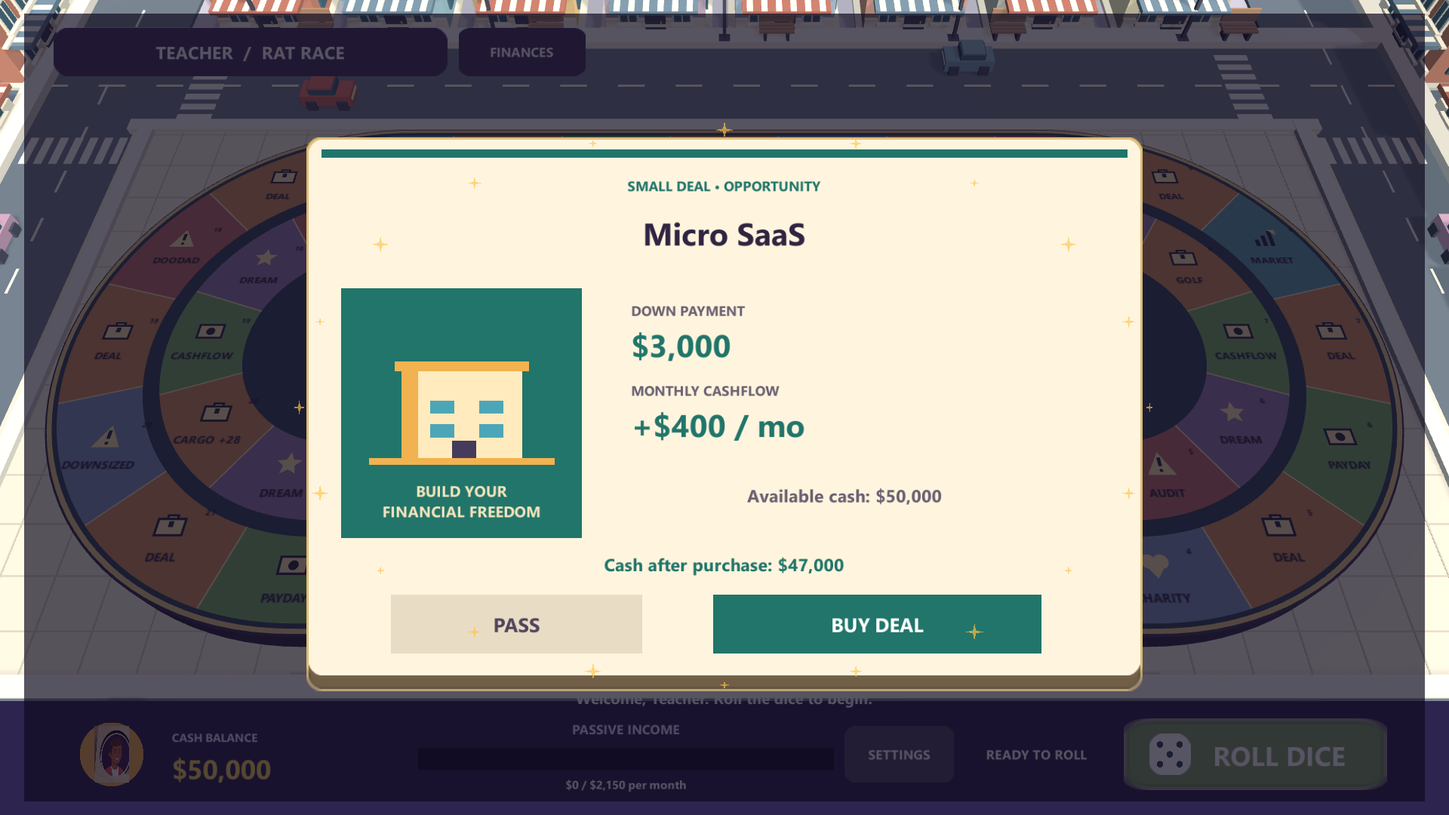
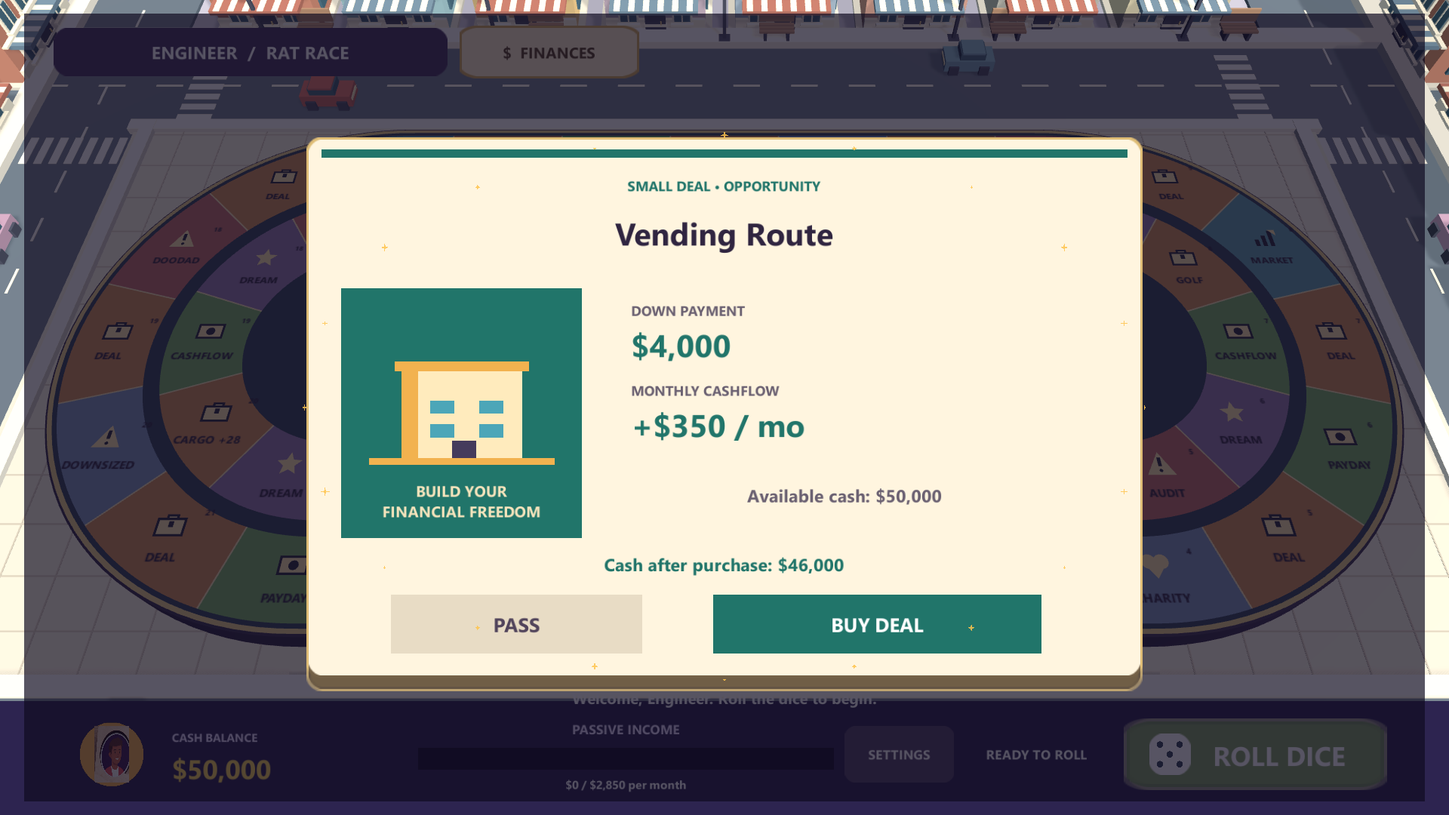
Implement finance features: add bank loans, charity options, and update UI interactions. Enhance tests for loan confirmation, repayment, and financial calculations.

diff --git a/Assets/Scripts/CashflowGame.cs b/Assets/Scripts/CashflowGame.cs
@@ -28,7 +28,7 @@ public partial class CashflowGame : MonoBehaviour
     readonly Deal[] smallDeals = { new Deal("2/1 Condo", 4000, 220), new Deal("3/2 House", 5000, 250), new Deal("Vending Route", 4000, 350), new Deal("Micro SaaS", 3000, 400) };
     readonly Deal[] bigDeals = { new Deal("4-Plex", 10000, 800), new Deal("Pizza Franchise", 35000, 3000) };
 
-    Profession profession; string dream; int selectedDream; int cash, passive, children, position, fastPosition, fastFlow; bool fastTrack, charity; int skipTurns;
+    Profession profession; string dream; int selectedDream; int cash, passive, children, position, fastPosition, fastFlow; bool fastTrack, charity; int skipTurns; int bankLoan;
     BoardWorld world; Button rollButton; bool rolling; GameObject modal;
     RectTransform uiRoot; Text bottomCash, freedomText, diceResult; Image freedomFill;
     Canvas canvas; Text header, statement, log, cashReadout, flowReadout, modeReadout, hoverCopy; RectTransform board; GameObject hoverPanel; Sprite circleSprite, roundedSprite; Font uiFont; readonly Dictionary<string, Sprite> artSprites = new Dictionary<string, Sprite>(); readonly List<Button> tileButtons = new List<Button>(); readonly List<GameObject> boardDecorations = new List<GameObject>();
@@ -199,7 +199,7 @@ public partial class CashflowGame : MonoBehaviour
         var cashflow=Label(confirmation.transform,(flow>=0?"+":"")+Money(flow)+"/mo",17,TextAnchor.MiddleRight); cashflow.color=C("#00e2a4"); cashflow.fontStyle=FontStyle.Bold; Place(cashflow.rectTransform,420,39,675,28);
         var start=Button(confirmation.transform,"⊙  START CASHFLOW GAME",C("#079d70"),()=>{PlayerPrefs.SetInt("CashflowDream",selectedDream);PlayerPrefs.Save();SceneManager.LoadScene("GameBoard");}); Place(start.GetComponent<RectTransform>(),0,-25,1095,66); SetButtonText(start,Color.white,23);
     }
-    void StartGame(){ if(profession==null)LoadProfessionSelection(); selectedDream=Mathf.Clamp(PlayerPrefs.GetInt("CashflowDream",0),0,dreams.Length-1); dream=dreams[selectedDream]; cash=profession.savings; passive=0;children=0;position=0;fastPosition=0;fastFlow=0;fastTrack=false;charity=false;skipTurns=0;BuildGame(); Log("Welcome, "+profession.name+". Roll the dice to begin."); }
+    void StartGame(){ if(profession==null)LoadProfessionSelection(); selectedDream=Mathf.Clamp(PlayerPrefs.GetInt("CashflowDream",0),0,dreams.Length-1); dream=dreams[selectedDream]; cash=profession.savings; passive=0;children=0;position=0;fastPosition=0;fastFlow=0;fastTrack=false;charity=false;skipTurns=0;bankLoan=0;BuildGame(); Log("Welcome, "+profession.name+". Roll the dice to begin."); }
     void BuildGame()
     {
         if(world!=null){world.gameObject.SetActive(false);Destroy(world.gameObject);}
@@ -208,7 +208,8 @@ public partial class CashflowGame : MonoBehaviour
         uiRoot.Find("Background").GetComponent<Image>().color=Color.clear;
         var top=Panel(uiRoot,new Vector2(.5f,.5f),new Vector2(.5f,.5f),new Vector2(360,44),C("#49375f"));Place(top.GetComponent<RectTransform>(),-433,325,360,44);top.GetComponent<Image>().sprite=RoundedSprite();top.GetComponent<Image>().type=Image.Type.Sliced;
         header=Label(top.transform,"",16);Stretch(header.rectTransform);
-        var statementButton=Button(uiRoot,"FINANCES",C("#49375f"),ShowStatement);Place(statementButton.GetComponent<RectTransform>(),-185,325,116,44);statementButton.GetComponent<Image>().sprite=RoundedSprite();SetButtonText(statementButton,Color.white,12);
+        var statementButton=Button(uiRoot,"$  FINANCES",C("#fff0cb"),ShowStatement);statementButton.gameObject.name="Finances Button";Place(statementButton.GetComponent<RectTransform>(),-160,325,160,44);statementButton.GetComponent<Image>().sprite=RoundedSprite();SetButtonText(statementButton,C("#594125"),14);
+        var financeTrim=statementButton.gameObject.AddComponent<Outline>();financeTrim.effectColor=C("#d6ae5e");financeTrim.effectDistance=new Vector2(2,2);
         // The board occupies the complete game area below the persistent header.
         board=new GameObject("Game Board",typeof(RectTransform),typeof(Image)).GetComponent<RectTransform>(); board.SetParent(uiRoot,false); board.GetComponent<Image>().color=new Color(1,1,1,0); board.GetComponent<Image>().raycastTarget=false; Place(board,0,8,1280,540);
         world=new GameObject("Cashflow 3D World").AddComponent<BoardWorld>();
@@ -341,7 +342,7 @@ public partial class CashflowGame : MonoBehaviour
         if(title.Contains("PAYDAY")||title.Contains("CASHFLOW")) return "collect your monthly cashflow.";
         if(title.Contains("OPPORTUNITY")) return "draw an investment deal.";
         if(title.Contains("DOODAD")) return "pay an unexpected expense.";
-        if(title.Contains("CHARITY")) return "donate to unlock a two-dice roll.";
+        if(title.Contains("CHARITY")) return "choose to donate for two dice next roll, or pass and keep one die.";
         if(title.Contains("MARKET")) return "receive a market offer or stock split.";
         if(title.Contains("BABY")) return "add a new monthly expense.";
         if(title.Contains("DOWNSIZED")) return "pay expenses and lose two turns.";
@@ -389,7 +390,7 @@ public partial class CashflowGame : MonoBehaviour
         if(tile=="PAYDAY"){ Payday(); ShowEventPanel("PAYDAY","Your monthly cashflow was added to cash.\n\nCollected: "+Money(Income()-Expenses()),C("#a16207")); return; }
         if(tile=="OPPORTUNITY"){ ShowDealChoice(); return; }
         if(tile=="DOODAD"){ int cost=Random.Range(100,1001); cash-=cost; Log("Doodad: paid "+Money(cost)); ShowEventPanel("DOODAD","Unexpected expense paid.\n\nCost: "+Money(cost),C("#b91c1c")); return; }
-        if(tile=="CHARITY"){ int cost=Mathf.Max(100,Income()/10); cash-=cost; charity=true; Log("Charity: paid "+Money(cost)+"; next roll uses two dice."); ShowEventPanel("CHARITY","You donated "+Money(cost)+".\n\nYour next roll uses two dice!",C("#b45309")); return; }
+        if(tile=="CHARITY"){ShowCharityChoice();return;}
         if(tile=="BABY"){ children=Mathf.Min(3,children+1); Log("A new baby joins the family. Expenses increased."); ShowEventPanel("BABY","Your family grew.\n\nMonthly expenses increased by "+Money(profession.childPay)+".",C("#be185d")); return; }
         if(tile=="DOWNSIZED"){ cash-=Expenses(); skipTurns=2; Log("Downsized: paid expenses and lose 2 turns."); ShowEventPanel("DOWNSIZED","You paid one month of expenses and must skip two turns.\n\nCost: "+Money(Expenses()),C("#0369a1")); return; }
         if(tile=="MARKET"){ int gain=Mathf.Max(0,passive*5); cash+=gain; Log("Market day: portfolio value realized."); ShowEventPanel("THE MARKET","A market event produced a portfolio gain.\n\nCash received: "+Money(gain),C("#6b21a8")); return; }
@@ -401,8 +402,8 @@ public partial class CashflowGame : MonoBehaviour
             else{int lost=cash-cash/2;cash=Mathf.Max(0,cash/2);Log("Fast Track hazard reduced cash.");ShowEventPanel("FAST TRACK HAZARD","A setback reduced your available cash.\n\nLost: "+Money(lost),C("#b91c1c"));}
         }
     }
-    int Expenses(){return profession.taxes+profession.mortgagePay+profession.schoolPay+profession.carPay+profession.cardPay+profession.retailPay+profession.other+children*profession.childPay;}
-    int Income(){return (fastTrack?0:profession.salary)+passive;}
+    int Expenses(){return profession.taxes+profession.mortgagePay+profession.schoolPay+profession.carPay+profession.cardPay+profession.retailPay+profession.other+children*profession.childPay+LoanPayment();}
+    int Income(){return (fastTrack?fastFlow:profession.salary)+passive;}
     void Payday(){int amount=Income()-Expenses();cash+=amount;Log("PAYDAY: collected "+Money(amount));}
     void CheckEscape(){if(!fastTrack&&passive>Expenses()){fastTrack=true;cash=passive*100;DrawBoard();Log("You escaped the Rat Race! Welcome to the Fast Track.");}}
     void Refresh()
@@ -418,6 +419,6 @@ public partial class CashflowGame : MonoBehaviour
     }
     void Log(string s){if(log!=null)log.text=s;}
     string Money(int v){return (v<0?"-":"")+"$"+Mathf.Abs(v).ToString("N0");}
-    void ShowStatement(){var popup=Modal(new Vector2(480,370));var tx=Label(popup.transform,"FINANCIAL STATEMENT\n\nSalary: "+Money(fastTrack?0:profession.salary)+"\nPassive income: "+Money(passive)+"\nExpenses: "+Money(Expenses())+"\nMonthly cashflow: "+Money(Income()-Expenses())+"\nFreedom: "+(Expenses()==0?100:Mathf.Min(100,passive*100/Expenses()))+"%",20);Place(tx.rectTransform,0,20,430,280);var close=Button(popup.transform,"CLOSE",C("#475569"),()=>CloseModal());Place(close.GetComponent<RectTransform>(),0,-145,150,38);}
+
     void Win(){var p=Modal(new Vector2(520,260));var t=Label(p.transform,"DREAM ACHIEVED!\n\nYou reached your dream: "+dream+"\n\nCongratulations!",26);Place(t.rectTransform,0,20,470,190);var again=Button(p.transform,"PLAY AGAIN",C("#16a34a"),StartGame);Place(again.GetComponent<RectTransform>(),0,-95,160,42);}
 }

diff --git a/Assets/Scripts/CashflowFinance.cs b/Assets/Scripts/CashflowFinance.cs
@@ -1,0 +1,67 @@
+using UnityEngine;
+using UnityEngine.UI;
+
+public partial class CashflowGame
+{
+    // Game bank rules: $1,000 principal increments, $100 monthly interest per increment.
+    // Interest is an expense; principal is paid back separately from Finances.
+    int LoanPayment(){return bankLoan/10;}
+    int LoanNeeded(Deal deal){return Mathf.CeilToInt(Mathf.Max(0,deal.down-cash)/1000f)*1000;}
+    void ShowCharityChoice()
+    {
+        int donation=Mathf.Max(100,Income()/10);bool resolved=false;
+        var card=CardShell("CHARITY • YOUR CHOICE","Give a little. Make a difference.",C("#a56b26"),new Vector2(740,450));
+        var copy=Label(card.transform,"Donate "+Money(donation)+" to roll two dice on your next roll.\nOr pass and continue with one die.",22);copy.color=C("#51445b");Place(copy.rectTransform,0,30,660,90);
+        var amount=Label(card.transform,"YOUR DONATION  "+Money(donation),29);amount.color=C("#21756a");amount.fontStyle=FontStyle.Bold;Place(amount.rectTransform,0,-45,650,46);
+        var balance=Label(card.transform,cash>=donation?"Cash after donating: "+Money(cash-donation):"Available cash: "+Money(cash)+" • Not enough to donate",16);balance.color=C("#6a6071");Place(balance.rectTransform,0,-99,650,30);
+        var donate=Button(card.transform,"DONATE • 2 DICE",C("#21756a"),()=>
+        {
+            if(resolved||cash<donation)return;resolved=true;cash-=donation;charity=true;CloseModal();Refresh();Log("Donated "+Money(donation)+". Next roll: two dice.");
+        });donate.name="Donate Charity";donate.interactable=cash>=donation;Place(donate.GetComponent<RectTransform>(),155,-165,310,54);SetButtonText(donate,Color.white,18);
+        var pass=Button(card.transform,"PASS • 1 DIE",C("#e8dcc5"),()=>{if(resolved)return;resolved=true;charity=false;CloseModal();Log("Passed on charity. Next roll: one die.");});pass.name="Pass Charity";Place(pass.GetComponent<RectTransform>(),-180,-165,270,54);SetButtonText(pass,C("#51445b"),18);
+    }
+    void ShowLoanOffer(Deal deal,bool big)
+    {
+        int principal=LoanNeeded(deal),payment=principal/10;bool resolved=false;
+        var card=CardShell("BANK LOAN • REVIEW BEFORE BUYING",deal.title,C("#654174"),new Vector2(760,520));
+        FinanceRow(card.transform,"Borrow",Money(principal),100);
+        FinanceRow(card.transform,"Added monthly interest",Money(payment)+" / mo",52);
+        FinanceRow(card.transform,"Deal income after added interest",Money(deal.flow-payment)+" / mo",4);
+        FinanceRow(card.transform,"Cash after purchase",Money(cash+principal-deal.down),-44);
+        var terms=Label(card.transform,"Game rule: borrow in $1,000 steps at $100/month per step.\nInterest does not reduce the loan. Repay principal in Finances.",16);terms.color=C("#6a6071");Place(terms.rectTransform,0,-113,680,58);
+        var accept=Button(card.transform,"BORROW & BUY",C("#654174"),()=>
+        {
+            if(resolved)return;resolved=true;
+            // Recompute against the current balance, so accepting cannot overdraw cash.
+            int loan=LoanNeeded(deal);bankLoan+=loan;cash+=loan-deal.down;passive+=deal.flow;
+            CloseModal();CheckEscape();Refresh();Log("Borrowed "+Money(loan)+" and bought "+deal.title+". Loan interest: "+Money(LoanPayment())+"/mo.");PurchaseCelebration(deal);
+        });accept.name="Confirm Loan";Place(accept.GetComponent<RectTransform>(),150,-202,310,54);SetButtonText(accept,Color.white,18);
+        var pass=Button(card.transform,"PASS ON DEAL",C("#e8dcc5"),()=>{if(resolved)return;resolved=true;CloseModal();Log("Passed on "+deal.title+". No loan taken.");});pass.name="Pass Loan";Place(pass.GetComponent<RectTransform>(),-190,-202,270,54);SetButtonText(pass,C("#51445b"),18);
+    }
+    void ShowStatement()
+    {
+        var card=CardShell("YOUR MONEY • YOUR PROGRESS","Financial statement",C("#21756a"),new Vector2(800,590));
+        var cashBox=Panel(card.transform,Vector2.one*.5f,Vector2.one*.5f,new Vector2(340,78),C("#21756a"));Place(cashBox.GetComponent<RectTransform>(),-185,126,340,78);
+        var cashText=Label(cashBox.transform,"CASH AVAILABLE\n"+Money(cash),23);Stretch(cashText.rectTransform);
+        int net=Income()-Expenses();
+        var flowBox=Panel(card.transform,Vector2.one*.5f,Vector2.one*.5f,new Vector2(340,78),C(net>=0?"#654174":"#a84036"));Place(flowBox.GetComponent<RectTransform>(),185,126,340,78);
+        var flowText=Label(flowBox.transform,"MONTHLY CASHFLOW\n"+Money(net),23);Stretch(flowText.rectTransform);
+        FinanceRow(card.transform,"Salary / Fast Track income",Money(fastTrack?fastFlow:profession.salary),53);
+        FinanceRow(card.transform,"Passive income",Money(passive),11);
+        FinanceRow(card.transform,"Living expenses",Money(Expenses()-LoanPayment()),-31);
+        FinanceRow(card.transform,"Bank loan interest / month",Money(LoanPayment()),-73);
+        FinanceRow(card.transform,"Outstanding bank loan",Money(bankLoan),-115);
+        var freedom=Label(card.transform,"FINANCIAL FREEDOM  "+Mathf.RoundToInt(Mathf.Clamp01(passive/(float)Mathf.Max(1,Expenses()))*100)+"%",15);freedom.color=C("#21756a");Place(freedom.rectTransform,0,-164,680,28);
+        bool repaid=false;
+        var repay=Button(card.transform,"REPAY $1,000",C("#654174"),()=>
+        {
+            if(repaid||bankLoan<1000||cash<1000)return;repaid=true;bankLoan-=1000;cash-=1000;CheckEscape();Refresh();ShowStatement();
+        });repay.name="Repay Loan";repay.interactable=bankLoan>=1000&&cash>=1000;Place(repay.GetComponent<RectTransform>(),-175,-230,280,52);SetButtonText(repay,Color.white,18);
+        var done=Button(card.transform,"BACK TO BOARD",C("#21756a"),CloseModal);done.name="Close Finances";Place(done.GetComponent<RectTransform>(),165,-230,300,52);SetButtonText(done,Color.white,18);
+    }
+    void FinanceRow(Transform parent,string caption,string value,float y)
+    {
+        var label=Label(parent,caption,18,TextAnchor.MiddleLeft);label.color=C("#6a6071");Place(label.rectTransform,-132,y,405,34);
+        var amount=Label(parent,value,21,TextAnchor.MiddleRight);amount.color=C("#302540");amount.fontStyle=FontStyle.Bold;Place(amount.rectTransform,210,y,245,34);
+    }
+}

diff --git a/Assets/Editor/DealReview.cs b/Assets/Editor/DealReview.cs
@@ -59,16 +59,48 @@ public static class DealReview
                     Require(!UnityEngine.Object.FindObjectOfType<BoardWorld>().InputBlocked,"Pass left modal blocked");Set("cash",0);Call("Land","OPPORTUNITY");break;
                 case 8:Click("Choose Big Deal");break;
                 case 9:
-                    Require(!GameObject.Find("Buy Deal").GetComponent<Button>().interactable,"Unaffordable deal enabled");
+                    Require(GameObject.Find("Buy Deal").GetComponent<Button>().interactable,"Borrow option missing");
                     ScreenCapture.CaptureScreenshot(Folder+"/insufficient-cash.png");break;
                 case 10:
-                    Click("Buy Deal");Require(Get("cash")==0,"Unaffordable purchase allowed");Click("Pass Deal");
+                    Click("Buy Deal");Require(Get("cash")==0&&Get("bankLoan")==0,"Loan charged before confirmation");Click("Pass Loan");
                     UnityEngine.Object.FindObjectOfType<BoardWorld>().ReducedMotion=true;Call("Land","PAYDAY");break;
                 case 11:
                     var group=GameObject.Find("Event Card").GetComponent<CanvasGroup>();Require(group.alpha==1&&group.interactable,"Reduced motion reveal incomplete");
                     ScreenCapture.CaptureScreenshot(Folder+"/event-card.png");
                     File.WriteAllText(Folder+"/results.txt","PASS: both deck choices, small purchase, duplicate click guard, big deal pass, insufficient cash, modal cleanup, reduced-motion event reveal.\n");
-                    Call("CloseModal");running=false;return;
+                    Call("CloseModal");break;
+                case 12:Call("StartGame");Set("cash",5000);Call("Land","CHARITY");break;
+                case 13:
+                    ScreenCapture.CaptureScreenshot(Folder+"/charity-choice.png");Click("Pass Charity");
+                    Require(Get("cash")==5000&&!(bool)typeof(CashflowGame).GetField("charity",Flags).GetValue(Game),"Charity pass changed cash or dice");
+                    Call("Land","CHARITY");break;
+                case 14:
+                    var donate=GameObject.Find("Donate Charity").GetComponent<Button>();donate.onClick.Invoke();int after=Get("cash");donate.onClick.Invoke();
+                    Require(after<5000&&Get("cash")==after&&(bool)typeof(CashflowGame).GetField("charity",Flags).GetValue(Game),"Donation failed or charged twice");
+                    Set("cash",0);Call("Land","CHARITY");break;
+                case 15:
+                    Require(!GameObject.Find("Donate Charity").GetComponent<Button>().interactable,"Unaffordable donation enabled");Click("Pass Charity");
+                    Set("cash",400);Call("OfferDeal",new CashflowGame.Deal("Review property",4000,220),false);break;
+                case 16:Click("Buy Deal");break;
+                case 17:
+                    ScreenCapture.CaptureScreenshot(Folder+"/loan-review.png");
+                    Require(Get("cash")==400&&Get("bankLoan")==0,"Loan review modified balance");break;
+                case 18:
+                    var loan=GameObject.Find("Confirm Loan").GetComponent<Button>();loan.onClick.Invoke();loan.onClick.Invoke();
+                    Require(Get("cash")==400&&Get("bankLoan")==4000&&Get("passive")==220,"Borrow-and-buy accounting or duplicate guard failed");
+                    int expected=(int)typeof(CashflowGame).GetMethod("Income",Flags).Invoke(Game,null)-(int)typeof(CashflowGame).GetMethod("Expenses",Flags).Invoke(Game,null);
+                    Call("Payday");Require(Get("cash")==400+expected,"Payday excludes interest");Set("cash",5000);Call("ShowStatement");break;
+                case 19:
+                    int oldExpenses=(int)typeof(CashflowGame).GetMethod("Expenses",Flags).Invoke(Game,null);
+                    var repay=GameObject.Find("Repay Loan").GetComponent<Button>();repay.onClick.Invoke();repay.onClick.Invoke();
+                    Require(Get("bankLoan")==3000&&Get("cash")==4000,"Principal repayment accounting failed");
+                    Require((int)typeof(CashflowGame).GetMethod("Expenses",Flags).Invoke(Game,null)==oldExpenses-100,"Repayment did not reduce interest");break;
+                case 20:ScreenCapture.CaptureScreenshot(Folder+"/finances.png");break;
+                case 21:
+                    Click("Close Finances");Require(!UnityEngine.Object.FindObjectOfType<BoardWorld>().InputBlocked,"Finances blocked board after close");
+                    Call("StartGame");Require(Get("bankLoan")==0,"New game retained loan");
+                    File.AppendAllText(Folder+"/results.txt","PASS: charity accept/pass and affordability; loan confirmation/pass, interest, duplicate guards, repayment, finance close and new-game reset.\n");
+                    running=false;return;
             }
             step++;next=EditorApplication.timeSinceStartup+1.2;
         }

diff --git a/work/finance-tests.py b/work/finance-tests.py
@@ -1,0 +1,39 @@
+from pathlib import Path
+p=Path('Assets/Scripts/CashflowGame.cs');s=p.read_text(encoding='utf-8').replace('(fastTrack?0:profession.salary)+passive','(fastTrack?fastFlow:profession.salary)+passive');p.write_text(s,encoding='utf-8')
+p=Path('Assets/Scripts/CashflowFinance.cs');s=p.read_text(encoding='utf-8').replace('        var repay=Button','        bool repaid=false;\n        var repay=Button').replace('if(bankLoan<1000||cash<1000)return;bankLoan-=1000;','if(repaid||bankLoan<1000||cash<1000)return;repaid=true;bankLoan-=1000;');p.write_text(s,encoding='utf-8')
+p=Path('Assets/Editor/DealReview.cs');s=p.read_text().replace('Require(!GameObject.Find("Buy Deal").GetComponent<Button>().interactable,"Unaffordable deal enabled");','Require(GameObject.Find("Buy Deal").GetComponent<Button>().interactable,"Borrow option missing");')
+s=s.replace('Click("Buy Deal");Require(Get("cash")==0,"Unaffordable purchase allowed");Click("Pass Deal");','Click("Buy Deal");Require(Get("cash")==0&&Get("bankLoan")==0,"Loan charged before confirmation");Click("Pass Loan");')
+s=s.replace('                    Call("CloseModal");running=false;return;', '''                    Call("CloseModal");break;
+                case 12:Call("StartGame");Set("cash",5000);Call("Land","CHARITY");break;
+                case 13:
+                    ScreenCapture.CaptureScreenshot(Folder+"/charity-choice.png");Click("Pass Charity");
+                    Require(Get("cash")==5000&&!(bool)typeof(CashflowGame).GetField("charity",Flags).GetValue(Game),"Charity pass changed cash or dice");
+                    Call("Land","CHARITY");break;
+                case 14:
+                    var donate=GameObject.Find("Donate Charity").GetComponent<Button>();donate.onClick.Invoke();int after=Get("cash");donate.onClick.Invoke();
+                    Require(after<5000&&Get("cash")==after&&(bool)typeof(CashflowGame).GetField("charity",Flags).GetValue(Game),"Donation failed or charged twice");
+                    Set("cash",0);Call("Land","CHARITY");break;
+                case 15:
+                    Require(!GameObject.Find("Donate Charity").GetComponent<Button>().interactable,"Unaffordable donation enabled");Click("Pass Charity");
+                    Set("cash",400);Call("OfferDeal",new CashflowGame.Deal("Review property",4000,220),false);break;
+                case 16:Click("Buy Deal");break;
+                case 17:
+                    ScreenCapture.CaptureScreenshot(Folder+"/loan-review.png");
+                    Require(Get("cash")==400&&Get("bankLoan")==0,"Loan review modified balance");break;
+                case 18:
+                    var loan=GameObject.Find("Confirm Loan").GetComponent<Button>();loan.onClick.Invoke();loan.onClick.Invoke();
+                    Require(Get("cash")==400&&Get("bankLoan")==4000&&Get("passive")==220,"Borrow-and-buy accounting or duplicate guard failed");
+                    int expected=(int)typeof(CashflowGame).GetMethod("Income",Flags).Invoke(Game,null)-(int)typeof(CashflowGame).GetMethod("Expenses",Flags).Invoke(Game,null);
+                    Call("Payday");Require(Get("cash")==400+expected,"Payday excludes interest");Set("cash",5000);Call("ShowStatement");break;
+                case 19:
+                    ScreenCapture.CaptureScreenshot(Folder+"/finances.png");
+                    int oldExpenses=(int)typeof(CashflowGame).GetMethod("Expenses",Flags).Invoke(Game,null);
+                    var repay=GameObject.Find("Repay Loan").GetComponent<Button>();repay.onClick.Invoke();repay.onClick.Invoke();
+                    Require(Get("bankLoan")==3000&&Get("cash")==4000,"Principal repayment accounting failed");
+                    Require((int)typeof(CashflowGame).GetMethod("Expenses",Flags).Invoke(Game,null)==oldExpenses-100,"Repayment did not reduce interest");break;
+                case 20:
+                    Click("Close Finances");Require(!UnityEngine.Object.FindObjectOfType<BoardWorld>().InputBlocked,"Finances blocked board after close");
+                    Call("StartGame");Require(Get("bankLoan")==0,"New game retained loan");
+                    File.AppendAllText(Folder+"/results.txt","PASS: charity accept/pass and affordability; loan confirmation/pass, interest, duplicate guards, repayment, finance close and new-game reset.\\n");
+                    running=false;return;''')
+p.write_text(s)

diff --git a/work/finance-edit.py b/work/finance-edit.py
@@ -1,0 +1,13 @@
+from pathlib import Path
+p=Path('Assets/Scripts/CashflowGame.cs');s=p.read_text(encoding='utf-8').replace('int skipTurns;','int skipTurns; int bankLoan;')
+s=s.replace('charity=false;skipTurns=0;BuildGame();','charity=false;skipTurns=0;bankLoan=0;BuildGame();')
+a=s.index('        var statementButton=Button(');b=s.index('\n',a)
+s=s[:a]+'''        var statementButton=Button(uiRoot,"$  FINANCES",C("#fff0cb"),ShowStatement);statementButton.gameObject.name="Finances Button";Place(statementButton.GetComponent<RectTransform>(),-160,325,160,44);statementButton.GetComponent<Image>().sprite=RoundedSprite();SetButtonText(statementButton,C("#594125"),14);
+        var financeTrim=statementButton.gameObject.AddComponent<Outline>();financeTrim.effectColor=C("#d6ae5e");financeTrim.effectDistance=new Vector2(2,2);'''+s[b:]
+a=s.index('        if(tile=="CHARITY")');b=s.index('\n',a);s=s[:a]+'        if(tile=="CHARITY"){ShowCharityChoice();return;}'+s[b:]
+s=s.replace('profession.other+children*profession.childPay;}','profession.other+children*profession.childPay+LoanPayment();}')
+a=s.index('    void ShowStatement()');b=s.index('\n',a);s=s[:a]+s[b:]
+s=s.replace('return "donate 10% of income and roll two dice next turn.";','return "choose to donate for two dice next roll, or pass and keep one die.";')
+p.write_text(s,encoding='utf-8')
+p=Path('Assets/Scripts/CashflowCards.cs');s=p.read_text(encoding='utf-8').replace('affordable?"BUY DEAL":"NOT ENOUGH CASH"','affordable?"BUY DEAL":"BORROW & BUY..."').replace('affordable?accent:C("#807a81")','accent').replace('            if(resolved||cash<deal.down)return;resolved=true;','            if(resolved)return;resolved=true;\n            if(cash<deal.down){ShowLoanOffer(deal,big);return;}').replace('buy.interactable=affordable;','buy.interactable=true;')
+p.write_text(s,encoding='utf-8')

diff --git a/Assets/Scripts/CashflowCards.cs b/Assets/Scripts/CashflowCards.cs
@@ -59,11 +59,12 @@ public partial class CashflowGame
         var balance=Label(card.transform,"Available cash: "+Money(cash),16);balance.color=C("#6a6071");Place(balance.rectTransform,110,-80,400,28);
         bool affordable=cash>=deal.down, resolved=false;
         var status=Label(card.transform,affordable?"Cash after purchase: "+Money(cash-deal.down):"You need "+Money(deal.down-cash)+" more to buy this deal.",16);status.color=C(affordable?"#21756a":"#a84036");Place(status.rectTransform,0,-143,690,32);
-        var buy=Button(card.transform,affordable?"BUY DEAL":"NOT ENOUGH CASH",affordable?accent:C("#807a81"),()=>
+        var buy=Button(card.transform,affordable?"BUY DEAL":"BORROW & BUY...",accent,()=>
         {
-            if(resolved||cash<deal.down)return;resolved=true;
+            if(resolved)return;resolved=true;
+            if(cash<deal.down){ShowLoanOffer(deal,big);return;}
             cash-=deal.down;passive+=deal.flow;CloseModal();Log("Bought "+deal.title+". Passive income +"+Money(deal.flow));CheckEscape();Refresh();PurchaseCelebration(deal);
-        });buy.gameObject.name="Buy Deal";buy.interactable=affordable;Place(buy.GetComponent<RectTransform>(),140,-198,300,54);SetButtonText(buy,Color.white,18);
+        });buy.gameObject.name="Buy Deal";buy.interactable=true;Place(buy.GetComponent<RectTransform>(),140,-198,300,54);SetButtonText(buy,Color.white,18);
         var pass=Button(card.transform,"PASS",C("#e8dcc5"),()=>{if(resolved)return;resolved=true;CloseModal();Log("Passed on "+deal.title);});pass.gameObject.name="Pass Deal";Place(pass.GetComponent<RectTransform>(),-190,-198,230,54);SetButtonText(pass,C("#51445b"),18);
     }
     void PurchaseCelebration(Deal deal)

diff --git a/work/finance-notes.py b/work/finance-notes.py
@@ -1,0 +1,3 @@
+from pathlib import Path
+p=Path('outputs/3d/README.md')
+with p.open('a',encoding='utf-8') as f:f.write('\n## Optional charity, bank loans, and Finances\nCharity now offers Donate (two dice on the next roll) or Pass (one die); unaffordable donations are disabled. Unaffordable deals offer a reviewed bank loan or Pass. The game bank lends in $1,000 steps, charging $100/month per step as interest; principal can be repaid in $1,000 steps from Finances. Interest is included in expenses, payday and the financial-freedom calculation. Finances now uses the animated cream-and-gold card style with cashflow, debt and repayment controls. Tests cover choice outcomes, confirmation, duplicate-click guards, interest, repayment and resetting debt for a new game, plus the five-resolution board regression.\n')

diff --git a/work/finance-preview.py b/work/finance-preview.py
@@ -1,0 +1,2 @@
+from pathlib import Path
+p=Path('Assets/Editor/DealReview.cs');s=p.read_text().replace('                    ScreenCapture.CaptureScreenshot(Folder+"/finances.png");\n','').replace('                case 20:\n                    Click("Close Finances");','                case 20:ScreenCapture.CaptureScreenshot(Folder+"/finances.png");break;\n                case 21:\n                    Click("Close Finances");');p.write_text(s)

diff --git a/outputs/3d/README.md b/outputs/3d/README.md
@@ -31,3 +31,6 @@ Removed the right-side zoom/rotate controls and the minimap camera/render textur
 
 ## Deal cards
 Landing on Deal now offers separate Small Deal and Big Deal decks using the existing investment amounts. Cards show down payment, income, available cash, and affordability; Buy updates balances exactly once and Pass closes the modal correctly. A shared cream-and-gold presentation improves event cards too. Deals flip from an opportunity card back with gold sparkles; purchases show a brief celebration. Reduced Motion uses a short fade. Deal-flow tests passed alongside the five-resolution board regression.
+
+## Optional charity, bank loans, and Finances
+Charity now offers Donate (two dice on the next roll) or Pass (one die); unaffordable donations are disabled. Unaffordable deals offer a reviewed bank loan or Pass. The game bank lends in $1,000 steps, charging $100/month per step as interest; principal can be repaid in $1,000 steps from Finances. Interest is included in expenses, payday and the financial-freedom calculation. Finances now uses the animated cream-and-gold card style with cashflow, debt and repayment controls. Tests cover choice outcomes, confirmation, duplicate-click guards, interest, repayment and resetting debt for a new game, plus the five-resolution board regression.
